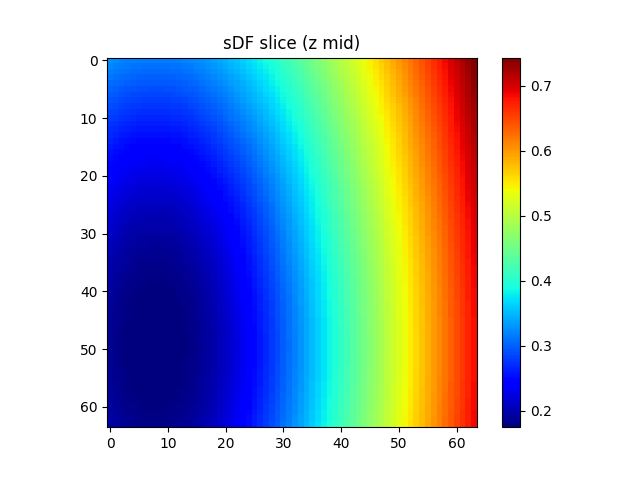
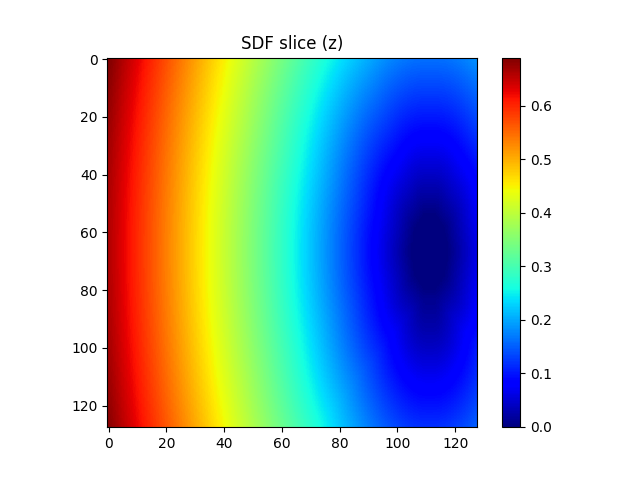
Now can select distances in SDF

diff --git a/sdf_visualization.py b/sdf_visualization.py
@@ -45,40 +45,11 @@ def compute_workspace_bound(mug_center, workspace_bound):
     # Z_max
     workspace_bound[2][1] = workspace_bound[2][1] - mug_center[2]
     return workspace_bound
+
 """
-Visualize the Mug in the 3D space
-
-Parameters: 
-    mug_transform: the 4x4 transformation matrix of the mug in the world frame
-    workspace_bound: a matrix containing the workspace boundary matrix as 
-    [[x_min, x_max], [y_min, y_max], [z_min, z_max]]
-    workspace_resolution: the resolution of the workspace grid for visualization
-Returns:
-    (none)
+Compute the 3D grid points for visualization
 """
-def visualize_workspace(mug_transform, workspace_bound=None, workspace_resolution=64):
-    
-    # Create a coordinate frame for the mug
-    # mug_frame = o3d.geometry.TriangleMesh.create_coordinate_frame(size=0.1)
-    # mug_frame.transform(mug_transform)
-
-    # # Create a bounding box for the workspace
-    # x_min, x_max = workspace_bound[0]
-    # y_min, y_max = workspace_bound[1]
-    # z_min, z_max = workspace_bound[2]
-
-    # workspace_box = o3d.geometry.AxisAlignedBoundingBox(
-    #     min_bound=[x_min, y_min, z_min],
-    #     max_bound=[x_max, y_max, z_max]
-    # )
-    # workspace_box.color = (1, 0, 0)  # Red color
-    
-    min_bound = mesh_legacy.get_min_bound()
-    max_bound = mesh_legacy.get_max_bound()
-
-    # update workspace_bound based on the center point of the mug
-    workspace_bound = compute_workspace_bound(mug_transform, workspace_bound)
-
+def compute_3d_points(workspace_bound, workspace_resolution):
     # Get the boundary values
     x_min, x_max = workspace_bound[0]
     y_min, y_max = workspace_bound[1]
@@ -93,47 +64,91 @@ def visualize_workspace(mug_transform, workspace_bound=None, workspace_resolutio
 
     # flatten -> query -> reshape
     points = grid.reshape(-1, 3)
+    return points
+
+"""
+Get the 2D slices of the SDF/UDF values in the workspace for visualization
+Parameters:
+    sdf: the 3D array containing the SDF/UDF values in the workspace
+    xyz_s;lices: the x, y, and z indices for 2d slices as a list
+    display_2d_slices: whether to display 2D slices of the SDF/UDF values 
+Returns:
+    (none)
+"""
+def visualize_2d_slices(sdf, xyz_slices, display_2d_slices):
+    plt.imshow(sdf[:, :, int(xyz_slices[2])], cmap='jet')
+    plt.colorbar()
+    plt.title("SDF slice (z)")
+    plt.savefig("sdf_slice_z.png")
+    if display_2d_slices:
+        plt.show()
+
+    plt.imshow(sdf[int(xyz_slices[0]), :, :], cmap='jet')
+    plt.colorbar()
+    plt.title("SDF slice (x)")
+    plt.savefig("sdf_slice_x.png")
+    if display_2d_slices:
+        plt.show()
+
+    plt.imshow(sdf[:, int(xyz_slices[1]), :], cmap='jet')
+    plt.colorbar()
+    plt.title("SDF slice (y)")
+    plt.savefig("sdf_slice_y.png")
+    if display_2d_slices:
+        plt.show()
+
+"""
+Visualize the Mug in the 3D space
+
+Parameters: 
+    mug_transform: the 4x4 transformation matrix of the mug in the world frame
+    workspace_bound: a matrix containing the workspace boundary matrix as 
+    [[x_min, x_max], [y_min, y_max], [z_min, z_max]]
+    workspace_resolution: the resolution of the workspace grid for visualization
+    display_2d_slices: whether to display 2D slices of the SDF/UDF values in the workspace
+Returns:
+    (none)
+"""
+def visualize_workspace(mug_transform, workspace_bound=None, workspace_resolution=64, display_2d_slices=True, select_specific_dist=False, d_star=0.01, eps=0.002):
+    # update workspace_bound based on the center point of the mug
+    workspace_bound = compute_workspace_bound(mug_transform, workspace_bound)
+
+    points = compute_3d_points(workspace_bound, workspace_resolution)
+    
 
     sdf = query_sdf(scene, points)  ### SDF/sDF
     sdf = sdf.reshape(workspace_resolution, workspace_resolution, workspace_resolution)
 
     # Visualize - 2D slice
-    mid_z = workspace_resolution // 2
-    mid_x = workspace_resolution // 2
-    mid_y = workspace_resolution // 2
-
-    plt.imshow(sdf[:, :, mid_z], cmap='jet')
-    plt.colorbar()
-    plt.title("sDF slice (z mid)")
-    plt.savefig("sdf_slice_z.png")
-    plt.show()
-
-    plt.imshow(sdf[mid_x, :, :], cmap='jet')
-    plt.colorbar()
-    plt.title("sDF slice (x mid)")
-    plt.savefig("sdf_slice_x.png")
-    plt.show()
-
-    plt.imshow(sdf[:, mid_y, :], cmap='jet')
-    plt.colorbar()
-    plt.title("sDF slice (y mid)")
-    plt.savefig("sdf_slice_y.png")
-    plt.show()
+    points_2d = compute_3d_points(workspace_bound, workspace_resolution*2)  # for 2D slice visualization
+    sdf_2d = query_sdf(scene, points_2d)  ### SDF/sDF
+    sdf_2d = sdf_2d.reshape(workspace_resolution*2, workspace_resolution*2, workspace_resolution*2)
+    xyz_slices =mug_transform #[workspace_resolution // 2, workspace_resolution // 2, workspace_resolution // 2]
+    visualize_2d_slices(sdf_2d, xyz_slices, display_2d_slices)
 
     # # Visualize the mug and the workspace
     # o3d.visualization.draw_geometries([mug_frame, workspace_box])
-    ## Visualize - 3D point cloud
-    sdf_norm = (sdf - sdf.min()) / (sdf.max() - sdf.min())
-    colors = plt.cm.jet(sdf_norm.flatten())[:, :3]
+    if select_specific_dist:
+        mask = (numpy.abs(sdf - d_star) < eps).reshape(-1)
+        contact_points = points[mask]
+        pcd = o3d.geometry.PointCloud()
+        pcd.points = o3d.utility.Vector3dVector(contact_points)
+        pcd.paint_uniform_color([1, 0, 0])
 
-    pcd = o3d.geometry.PointCloud()
-    pcd.points = o3d.utility.Vector3dVector(points)
-    pcd.colors = o3d.utility.Vector3dVector(colors)
+        o3d.visualization.draw_geometries([pcd, mesh_legacy])
+    else:
+        ## Visualize - 3D point cloud
+        sdf_norm = (sdf - sdf.min()) / (sdf.max() - sdf.min())
+        colors = plt.cm.jet(sdf_norm.flatten())[:, :3]
 
-    # make it more visually appealing
-    mesh_legacy.compute_vertex_normals()
-    # Draw the 3d Mesh
-    o3d.visualization.draw_geometries([pcd, mesh_legacy])
+        pcd = o3d.geometry.PointCloud()
+        pcd.points = o3d.utility.Vector3dVector(points)
+        pcd.colors = o3d.utility.Vector3dVector(colors)
+
+        # make it more visually appealing
+        mesh_legacy.compute_vertex_normals()
+        # Draw the 3d Mesh
+        o3d.visualization.draw_geometries([pcd, mesh_legacy])
 
 #############MAIN#################
 mesh_legacy = o3d.io.read_triangle_mesh("Mug_wo_tags.stl")
@@ -148,5 +163,5 @@ _ = scene.add_triangles(mesh)  # we do not need the geometry ID for mesh
 
 center = mesh_legacy.get_center()
 print("center:", center)
-center = numpy.array([0.3, -0.3, 0.039])  # for visualization purposes, we can set the center to be the middle of the workspace
-_ = visualize_workspace(center, workspace_bound, workspace_resolution=64);
+center = numpy.array([0.2, 0.3, 0.039])  # for visualization purposes, we can set the center to be the middle of the workspace
+_ = visualize_workspace(center, workspace_bound, workspace_resolution=64, display_2d_slices=False, select_specific_dist=True, d_star=0.2);